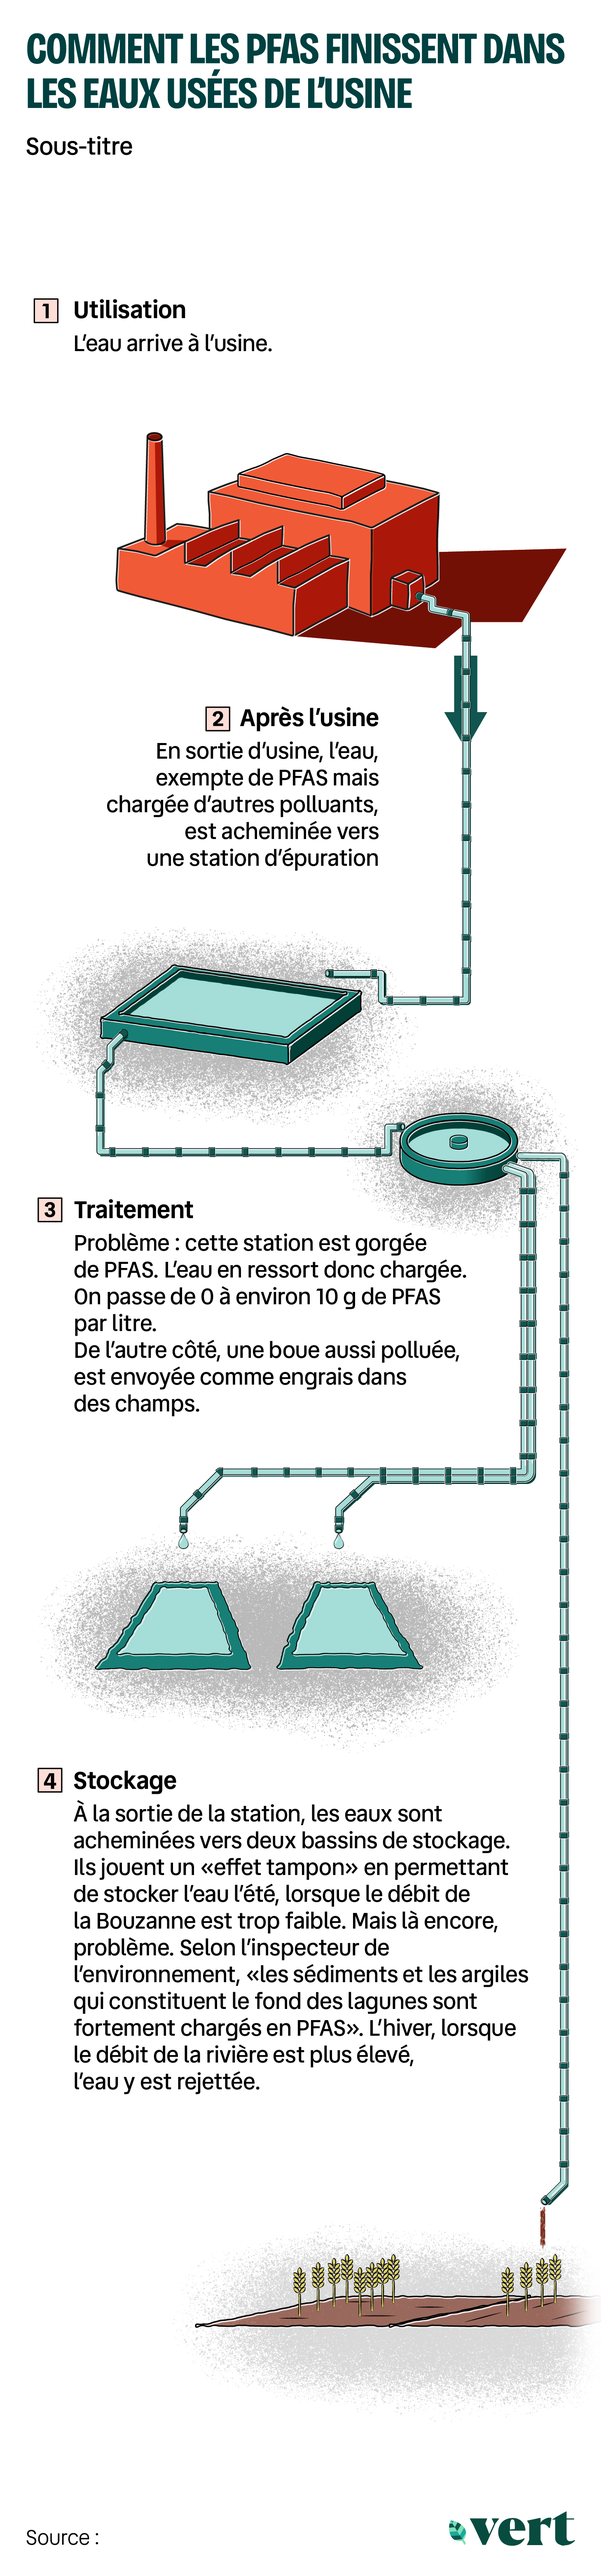
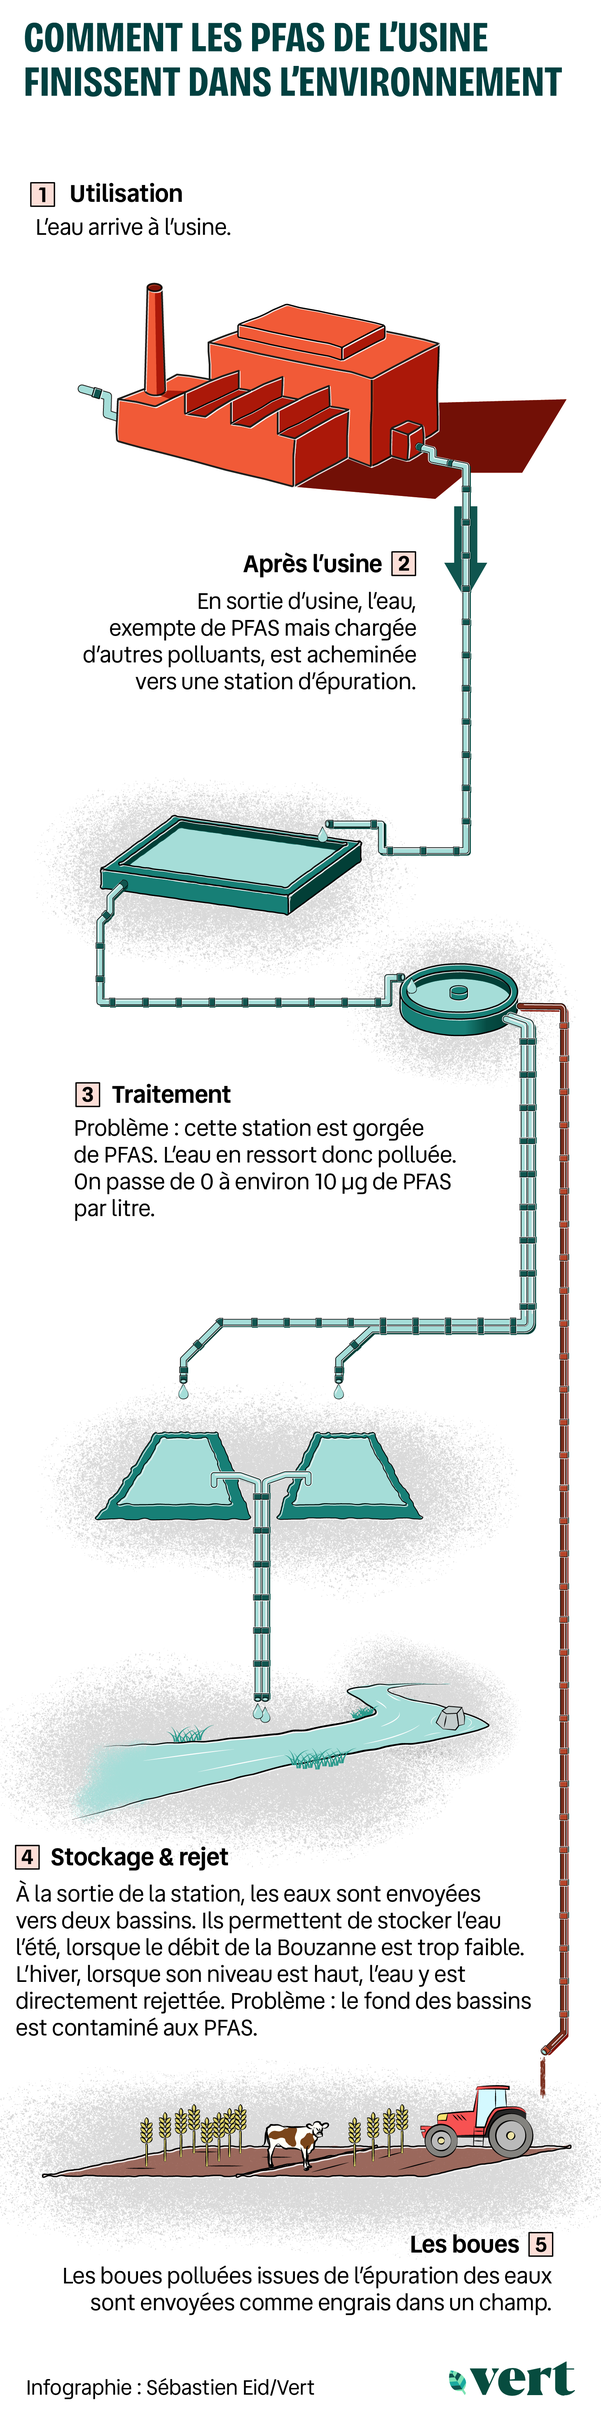
PFAS Bouzanne : nouvelles versions mobile et desk

diff --git a/pfas-bouzanne/index.html b/pfas-bouzanne/index.html
@@ -12,7 +12,7 @@
 <body>
 <picture>
 <source media="(min-width: 660px)" srcset="infog-pfas-usine_desk.webp" width="2576" height="3311">
-<img src="infog-pfas-usine.webp" width="1459" height="6251"
+<img src="infog-pfas-usine.webp" width="1459" height="5889"
      alt="Infographie : comment les PFAS finissent dans les eaux usées de l'usine. 1. L'eau arrive à l'usine. 2. En sortie, exempte de PFAS mais chargée d'autres polluants, elle part vers une station d'épuration. 3. La station, gorgée de PFAS, rejette une eau chargée (de 0 à environ 10 g de PFAS par litre) et une boue polluée épandue comme engrais. 4. L'eau est stockée dans deux bassins dont les sédiments sont fortement chargés en PFAS, puis rejetée dans la Bouzanne l'hiver.">
 </picture>
 </body>
